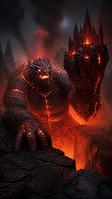
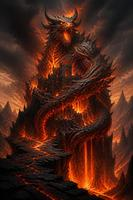
Repaint Phase Vault and Deep Fault boss scenes (titan in the vault, behemoth coiled round the fortress)
Claude-Session: https://claude.ai/code/session_01KTVK1AbCfmhnQJNVv8dZr9

diff --git a/src/components/clicker/clicker-boss-scene.tsx b/src/components/clicker/clicker-boss-scene.tsx
@@ -41,9 +41,9 @@ export const BOSS_SCENES: Record<string, SceneDef> = {
   },
   golem: {
     src: "/clicker/boss/phase_vault.webp",
-    body: { x: 50, y: 36, w: 80, h: 62 },
-    eyes: [{ x: 46, y: 13 }, { x: 54, y: 13 }],
-    strike: { x: 50, y: 76 },
+    body: { x: 50, y: 38, w: 92, h: 60 },
+    eyes: [{ x: 48, y: 16 }, { x: 56, y: 16 }],
+    strike: { x: 50, y: 80 },
     weather: "crystal",
     tint: "80 245 225",
     attackSfx: "bossSmash",
@@ -51,9 +51,9 @@ export const BOSS_SCENES: Record<string, SceneDef> = {
   },
   worm: {
     src: "/clicker/boss/deep_fault.webp",
-    body: { x: 36, y: 46, w: 70, h: 58 },
-    eyes: [{ x: 33, y: 34 }, { x: 40, y: 34 }],
-    strike: { x: 40, y: 78 },
+    body: { x: 52, y: 40, w: 80, h: 72 },
+    eyes: [{ x: 45, y: 12 }, { x: 52, y: 12 }],
+    strike: { x: 50, y: 82 },
     weather: "lava",
     tint: "255 130 40",
     attackSfx: "bossSmash",
